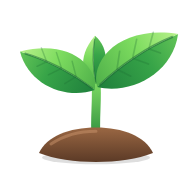
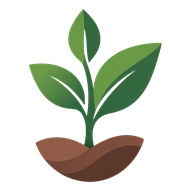
Add files via upload

diff --git a/index.html b/index.html
@@ -44,12 +44,13 @@
   <meta name="apple-mobile-web-app-capable" content="yes" />
   <meta name="apple-mobile-web-app-status-bar-style" content="black-translucent" />
   <meta name="apple-mobile-web-app-title" content="Minhas Plantas" />
-  <link rel="apple-touch-icon" href="apple-touch-icon.png" />
+  <link rel="apple-touch-icon" sizes="180x180" href="apple-touch-icon.png" />
   <link rel="icon" type="image/svg+xml" href="icon.svg" />
+  <link rel="icon" type="image/png" sizes="16x16" href="favicon-16.png" />
   <link rel="icon" type="image/png" sizes="32x32" href="favicon-32.png" />
-  <link rel="icon" type="image/svg+xml" href="icon.svg" />
-  <link rel="icon" type="image/png" sizes="32x32" href="favicon-32.png" />
+  <link rel="icon" type="image/png" sizes="48x48" href="favicon-48.png" />
   <link rel="icon" type="image/png" sizes="192x192" href="icon-192.png" />
+  <link rel="shortcut icon" href="favicon.ico" />
   <link rel="preconnect" href="https://fonts.googleapis.com">
   <link rel="preconnect" href="https://fonts.gstatic.com" crossorigin>
   <link rel="preconnect" href="https://res.cloudinary.com" crossorigin>
@@ -60,22 +61,14 @@
 <body class="auth-loading">
   <!-- Gradientes e logo compartilhados (referenciados por <use> e pelas animações) -->
   <svg width="0" height="0" style="position:absolute" aria-hidden="true" focusable="false"><defs>
-    <linearGradient id="mkLeafUp" x1="0" y1="0" x2="1" y2="0"><stop offset="0" stop-color="#4fb04a"/><stop offset=".55" stop-color="#7ddc5f"/><stop offset="1" stop-color="#b7f08a"/></linearGradient>
-    <linearGradient id="mkLeafLow" x1="0" y1="0" x2="1" y2="0"><stop offset="0" stop-color="#1f7f3c"/><stop offset=".6" stop-color="#37a448"/><stop offset="1" stop-color="#63c457"/></linearGradient>
-    <linearGradient id="mkStem" x1="0" y1="1" x2="0" y2="0"><stop offset="0" stop-color="#2f8f3f"/><stop offset="1" stop-color="#7fdc63"/></linearGradient>
-    <linearGradient id="mkSoil" x1="0" y1="0" x2="0" y2="1"><stop offset="0" stop-color="#9a6743"/><stop offset="1" stop-color="#5b3a26"/></linearGradient>
+    <linearGradient id="mkLeafUp" x1="0" y1="0" x2="1" y2="0"><stop offset="0" stop-color="#5f9145"/><stop offset=".55" stop-color="#6c9c4a"/><stop offset="1" stop-color="#86b45c"/></linearGradient>
+    <linearGradient id="mkLeafLow" x1="0" y1="0" x2="1" y2="0"><stop offset="0" stop-color="#2d613f"/><stop offset=".6" stop-color="#356b45"/><stop offset="1" stop-color="#4a8a4c"/></linearGradient>
+    <linearGradient id="mkStem" x1="0" y1="1" x2="0" y2="0"><stop offset="0" stop-color="#2d6a3f"/><stop offset="1" stop-color="#4f8f47"/></linearGradient>
+    <linearGradient id="mkSoil" x1="0" y1="0" x2="0" y2="1"><stop offset="0" stop-color="#94604a"/><stop offset="1" stop-color="#5e3a2e"/></linearGradient>
     <linearGradient id="mkPot" x1="0" y1="0" x2="1" y2="0"><stop offset="0" stop-color="#b9592e"/><stop offset=".35" stop-color="#e0794a"/><stop offset=".65" stop-color="#d06a3d"/><stop offset="1" stop-color="#9c4a26"/></linearGradient>
     <linearGradient id="mkPotRim" x1="0" y1="0" x2="1" y2="0"><stop offset="0" stop-color="#c4643a"/><stop offset=".4" stop-color="#ee8a5c"/><stop offset=".7" stop-color="#dc7448"/><stop offset="1" stop-color="#a95029"/></linearGradient>
     <linearGradient id="mkDrop" x1="0" y1="0" x2="1" y2="1"><stop offset="0" stop-color="#d9f4ff"/><stop offset=".5" stop-color="#6cc4ec"/><stop offset="1" stop-color="#2f8fc8"/></linearGradient>
-    <radialGradient id="mkShadow" cx="50%" cy="50%" r="50%"><stop offset="0" stop-color="#000" stop-opacity=".42"/><stop offset="1" stop-color="#000" stop-opacity="0"/></radialGradient><radialGradient id="mkGlow" cx="50%" cy="50%" r="50%"><stop offset="0" stop-color="#e8ffd2" stop-opacity=".55"/><stop offset=".55" stop-color="#9be08a" stop-opacity=".15"/><stop offset="1" stop-color="#9be08a" stop-opacity="0"/></radialGradient><symbol id="mpMark" viewBox="0 0 128 128"><g transform="translate(64 64) scale(1.0) translate(-64 -72)">
-    <ellipse cx="64" cy="113" rx="36" ry="4.500" fill="#000" opacity=".13"/>
-    <path d="M64 100C63 86 65 75 64 62" fill="none" stroke="url(#mkStem)" stroke-width="6" stroke-linecap="round"/>
-    <path d="M26 110C31 99 46 93 64 93S97 99 102 110C92 114 78 116 64 116S36 114 26 110Z" fill="url(#mkSoil)"/>
-    <path d="M34 104C43 98 53 95.500 64 95.500" fill="none" stroke="#c9936b" stroke-opacity=".5" stroke-width="2" stroke-linecap="round"/>
-    <g class="" style="transform-origin:64px 64px;"><g transform="translate(64 64) rotate(-88) scale(0.46)"><path d="M0 0C20 -5 46 -7 70 -4C52 19 18 17 0 0Z" fill="url(#mkLeafLow)"/><path d="M0 0C5 -19 36 -31 70 -4C46 -7 20 -5 0 0Z" fill="url(#mkLeafUp)"/><path d="M3 -.5C22 -5 46 -7 65 -4.2" fill="none" stroke="#1d6b34" stroke-opacity=".55" stroke-width="1.8" stroke-linecap="round"/></g></g>
-    <g class="" style="transform-origin:63.2px 68px;"><g transform="translate(63.2 68) scale(-1 1) rotate(-24) scale(0.8)"><path d="M0 0C20 -5 46 -7 70 -4C52 19 18 17 0 0Z" fill="url(#mkLeafLow)"/><path d="M0 0C5 -19 36 -31 70 -4C46 -7 20 -5 0 0Z" fill="url(#mkLeafUp)"/><path d="M3 -.5C22 -5 46 -7 65 -4.2" fill="none" stroke="#1d6b34" stroke-opacity=".55" stroke-width="1.8" stroke-linecap="round"/><path d="M19 -4.2l8 -10M33 -5.6l9 -10M47 -6l8 -8M19 -3.6l6 9M33 -4.8l7.5 9M46 -5.4l6 7" fill="none" stroke="#1d6b34" stroke-opacity=".28" stroke-width="1.2" stroke-linecap="round"/></g></g>
-    <g class="" style="transform-origin:64.8px 66px;"><g transform="translate(64.8 66) rotate(-30) scale(0.92)"><path d="M0 0C20 -5 46 -7 70 -4C52 19 18 17 0 0Z" fill="url(#mkLeafLow)"/><path d="M0 0C5 -19 36 -31 70 -4C46 -7 20 -5 0 0Z" fill="url(#mkLeafUp)"/><path d="M3 -.5C22 -5 46 -7 65 -4.2" fill="none" stroke="#1d6b34" stroke-opacity=".55" stroke-width="1.8" stroke-linecap="round"/><path d="M19 -4.2l8 -10M33 -5.6l9 -10M47 -6l8 -8M19 -3.6l6 9M33 -4.8l7.5 9M46 -5.4l6 7" fill="none" stroke="#1d6b34" stroke-opacity=".28" stroke-width="1.2" stroke-linecap="round"/></g></g>
-    </g></symbol></defs></svg>
+    <radialGradient id="mkShadow" cx="50%" cy="50%" r="50%"><stop offset="0" stop-color="#000" stop-opacity=".42"/><stop offset="1" stop-color="#000" stop-opacity="0"/></radialGradient><radialGradient id="mkGlow" cx="50%" cy="50%" r="50%"><stop offset="0" stop-color="#e8ffd2" stop-opacity=".55"/><stop offset=".55" stop-color="#9be08a" stop-opacity=".15"/><stop offset="1" stop-color="#9be08a" stop-opacity="0"/></radialGradient><symbol id="mpMark" viewBox="0 0 128 128"><image href="logo-mark.png" x="0" y="0" width="128" height="128"/></symbol></defs></svg>
   <a class="skip-link" href="#main">Pular para o conteúdo</a>
 
   <!-- Abertura do app: vaso, gota e planta crescendo (CSS puro; toque para pular) -->

diff --git a/sw.js b/sw.js
@@ -1,8 +1,8 @@
 // Service worker do Minhas Plantas: abre o app mesmo sem internet e recebe as notificações (Web Push).
 // Não guarda dados do Firebase nem fotos: só os arquivos do próprio app.
-const CACHE = 'minhas-plantas-v14';
+const CACHE = 'minhas-plantas-v15';
 const PUSH_URL = new URL(self.location.href).searchParams.get('push') || '';
-const SHELL = ['./', './index.html', './style.css', './manifest.json', './icon.svg'];
+const SHELL = ['./', './index.html', './style.css', './manifest.json', './icon.svg', './logo-mark.png', './icon-192.png', './favicon-32.png'];
 
 self.addEventListener('install', (event) => {
   event.waitUntil(caches.open(CACHE).then(c => c.addAll(SHELL).catch(() => {})).then(() => self.skipWaiting()));
